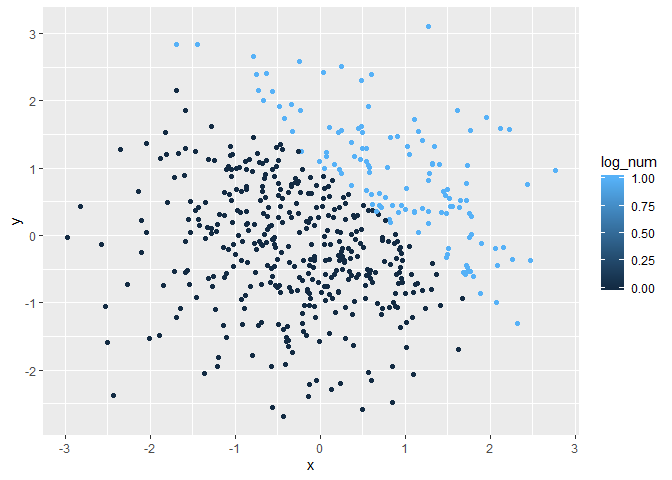
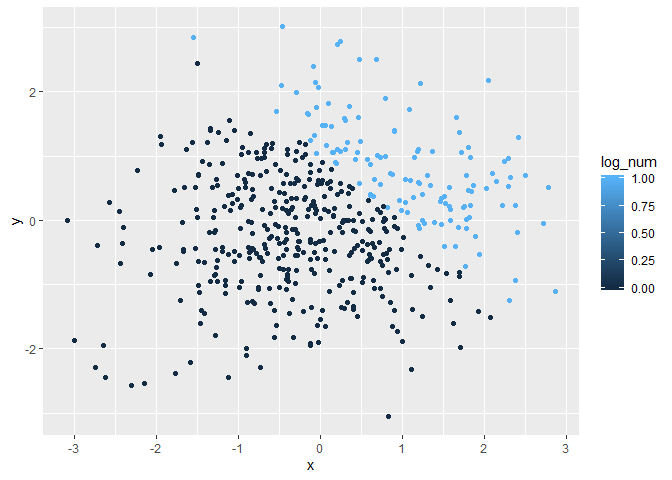
Saved a plot using ggsave

diff --git a/p8105_hw1_jt3175.md b/p8105_hw1_jt3175.md
@@ -41,13 +41,13 @@ for the character and factor
 mean(pull(simple_df1, sample_norm))
 ```
 
-    ## [1] -0.3087453
+    ## [1] -0.3222651
 
 ``` r
 mean(pull(simple_df1, gr_th_0))
 ```
 
-    ## [1] 0.5
+    ## [1] 0.375
 
 ``` r
 mean(pull(simple_df1, vec_char))
@@ -119,34 +119,34 @@ rs_x_log_to_fac_to_num = log_to_fac_to_num * pull(simple_df1, sample_norm)
 log_to_num
 ```
 
-    ## [1] 0 1 0 1 0 1 0 1
+    ## [1] 0 1 0 0 0 1 0 1
 
 ``` r
 log_to_fac
 ```
 
-    ## [1] FALSE TRUE  FALSE TRUE  FALSE TRUE  FALSE TRUE 
+    ## [1] FALSE TRUE  FALSE FALSE FALSE TRUE  FALSE TRUE 
     ## Levels: FALSE TRUE
 
 ``` r
 log_to_fac_to_num
 ```
 
-    ## [1] 1 2 1 2 1 2 1 2
+    ## [1] 1 2 1 1 1 2 1 2
 
 ``` r
 rs_x_log_to_num
 ```
 
-    ## [1] 0.00000000 0.40144232 0.00000000 1.42485088 0.00000000 0.55577700
-    ## [7] 0.00000000 0.08025077
+    ## [1] 0.0000000 0.2140363 0.0000000 0.0000000 0.0000000 0.1889077 0.0000000
+    ## [8] 0.6693869
 
 ``` r
 rs_x_log_to_fac_to_num
 ```
 
-    ## [1] -0.9423926  0.8028846 -0.8403392  2.8497018 -2.5159142  1.1115540
-    ## [7] -0.6336377  0.1605015
+    ## [1] -0.04318744  0.42807255 -1.56864110 -0.68353048 -1.26408677  0.37781538
+    ## [7] -0.09100600  1.33877378
 
 ## Problem 2
 
@@ -162,9 +162,9 @@ simple_df2 = tibble(
 
 The above dataframe contains 5 variables *(x, y, gr\_th\_1, log\_num,
 log\_fac)* of 500 observations each. X and y are both normally
-distributed variables. X has a mean of -0.0129887, median of -0.0455045,
-and standard deviation of 1.0162825. The variable *gr\_th\_1* represents
-whether x + y is greater than 1. There are 124/500 cases where x + y is
+distributed variables. X has a mean of -0.0138174, median of -0.0664378,
+and standard deviation of 1.0890077. The variable *gr\_th\_1* represents
+whether x + y is greater than 1. There are 127/500 cases where x + y is
 greater than 1.
 
 Below are three scatterplots of y vs x. On the first, points are colored
@@ -173,22 +173,33 @@ points using the numeric and factor variables, respectively. Both the
 logical and factor color scales are binary (producing 2 solid colors).
 However, use of the numeric variable for coloring produces a gradient
 that ranges over the values (0 to 1), but only 2 colors are displayed in
-the scatterplot because we only have 2 values represented.
+the scatterplot because we only have 2 values
+represented.
 
 ``` r
-ggplot(simple_df2, aes(x = x, y = y, color=gr_th_1)) + geom_point()
+colored_logical = ggplot(simple_df2, aes(x = x, y = y, color=gr_th_1)) + geom_point()
+colored_numeric = ggplot(simple_df2, aes(x = x, y = y, color=log_num)) + geom_point()
+colored_factor = ggplot(simple_df2, aes(x = x, y = y, color=log_fac)) + geom_point()
+
+colored_logical
 ```
 
 ![](p8105_hw1_jt3175_files/figure-gfm/yx_scatter-1.png)<!-- -->
 
 ``` r
-ggplot(simple_df2, aes(x = x, y = y, color=log_num)) + geom_point()
+colored_numeric
 ```
 
 ![](p8105_hw1_jt3175_files/figure-gfm/yx_scatter-2.png)<!-- -->
 
 ``` r
-ggplot(simple_df2, aes(x = x, y = y, color=log_fac)) + geom_point()
+colored_factor
 ```
 
 ![](p8105_hw1_jt3175_files/figure-gfm/yx_scatter-3.png)<!-- -->
+
+``` r
+ggsave("colored_logical.pdf")
+```
+
+    ## Saving 7 x 5 in image
